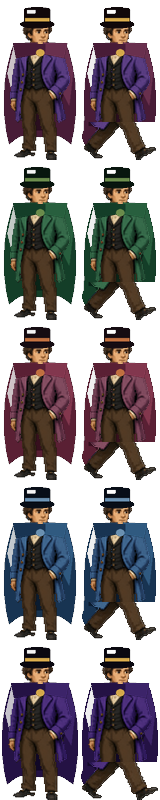
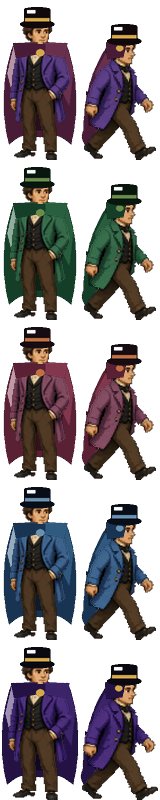
Revert the locked-coat walk; use the original stride frames again

diff --git a/index.html b/index.html
@@ -26,7 +26,7 @@
   <link rel="preconnect" href="https://fonts.gstatic.com" crossorigin />
   <link href="https://fonts.googleapis.com/css2?family=Cinzel:wght@600;700;800&family=Source+Sans+3:wght@500;600;700;800&display=swap" rel="stylesheet" />
   <title>Joseph Smith — Palmyra Quest</title>
-  <link rel="stylesheet" href="css/style.css?v=59" />
+  <link rel="stylesheet" href="css/style.css?v=60" />
   <script>
     (function () {
       var touch =
@@ -61,7 +61,7 @@
         <div id="ui-title" class="ui-screen" hidden>
           <div class="ui-title-inner">
             <p class="ui-flourish">◆</p>
-            <img class="ui-portrait" src="assets/joseph-portrait.png?v=59" alt="" width="88" height="88" />
+            <img class="ui-portrait" src="assets/joseph-portrait.png?v=60" alt="" width="88" height="88" />
             <h1 class="ui-title-name">Joseph Smith</h1>
             <h2 class="ui-title-sub">Palmyra Quest</h2>
             <p class="ui-rule" aria-hidden="true"></p>
@@ -148,6 +148,6 @@
 
     <p id="hint">Move with arrows or WASD · Look up · Jump X / A · Kneel ↓ · Attack Space / Z / B · Mute M</p>
   </div>
-  <script type="module" src="js/main.js?v=59"></script>
+  <script type="module" src="js/main.js?v=60"></script>
 </body>
 </html>
